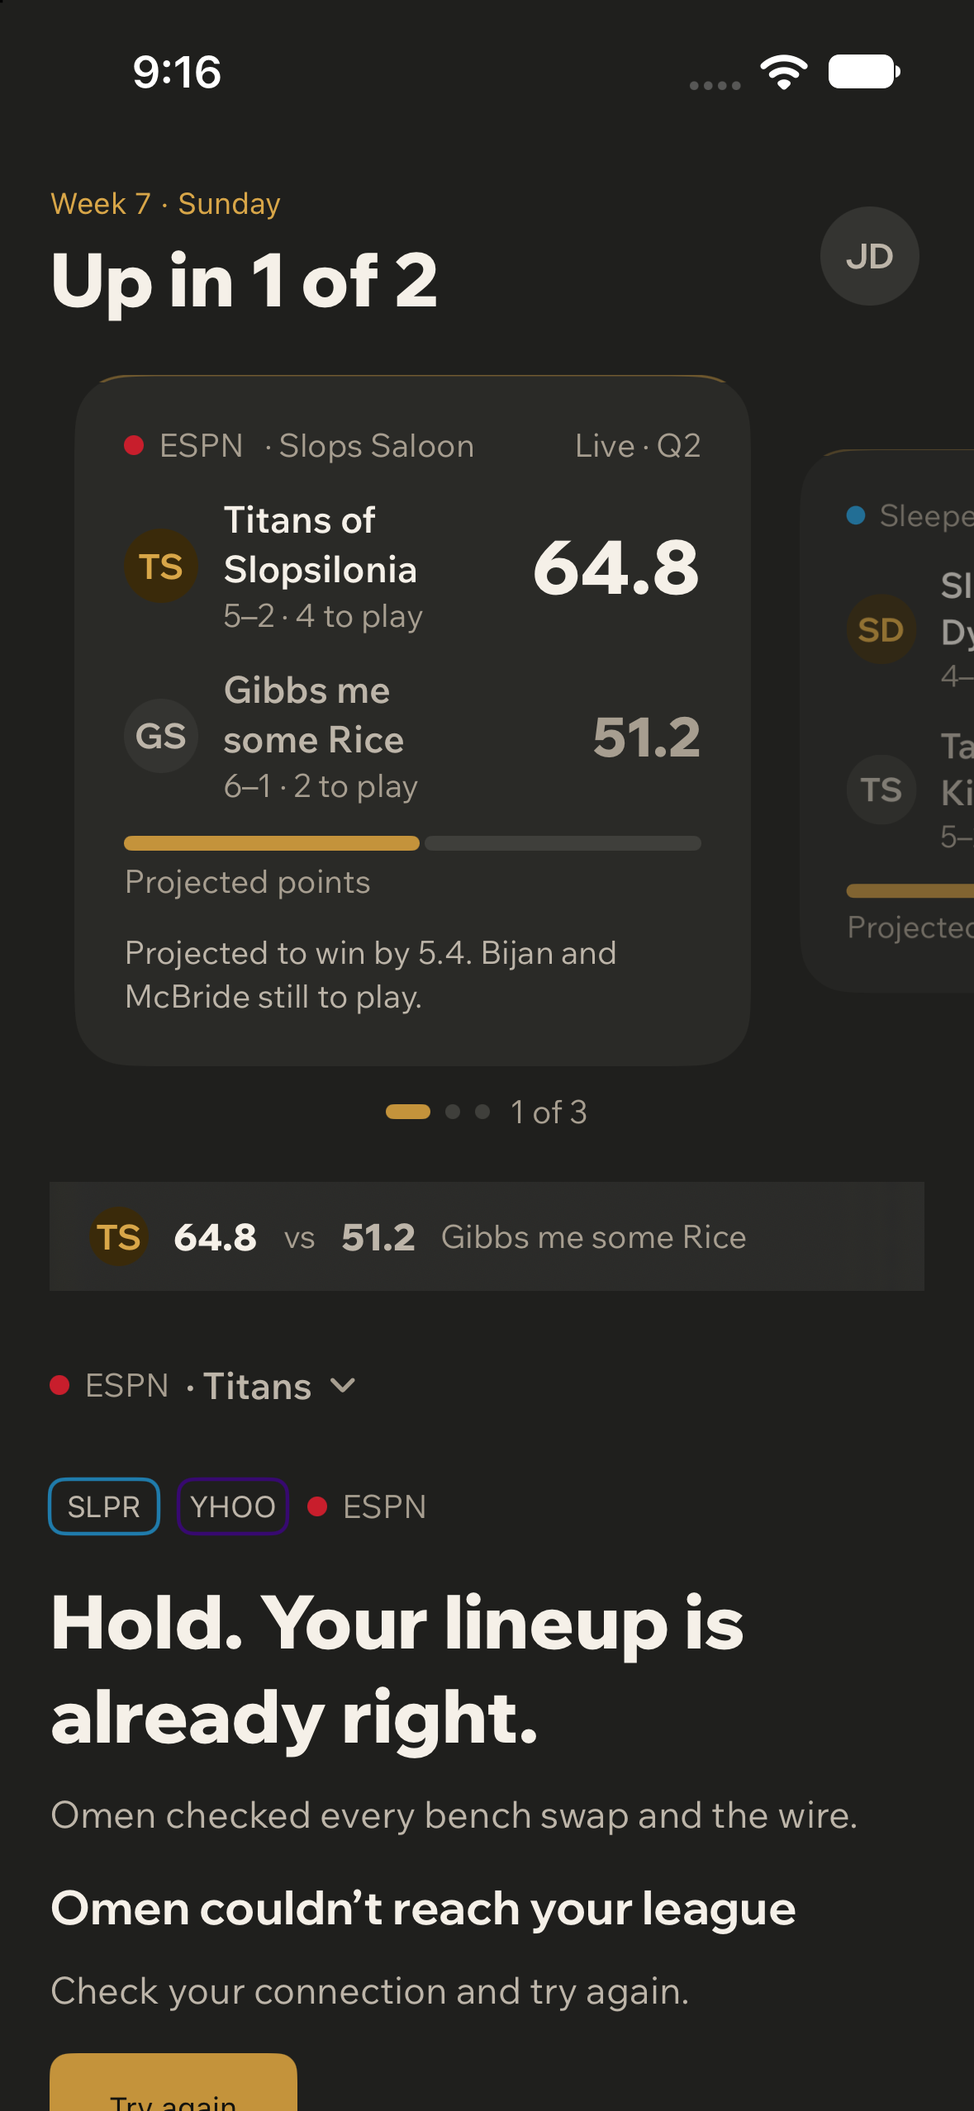
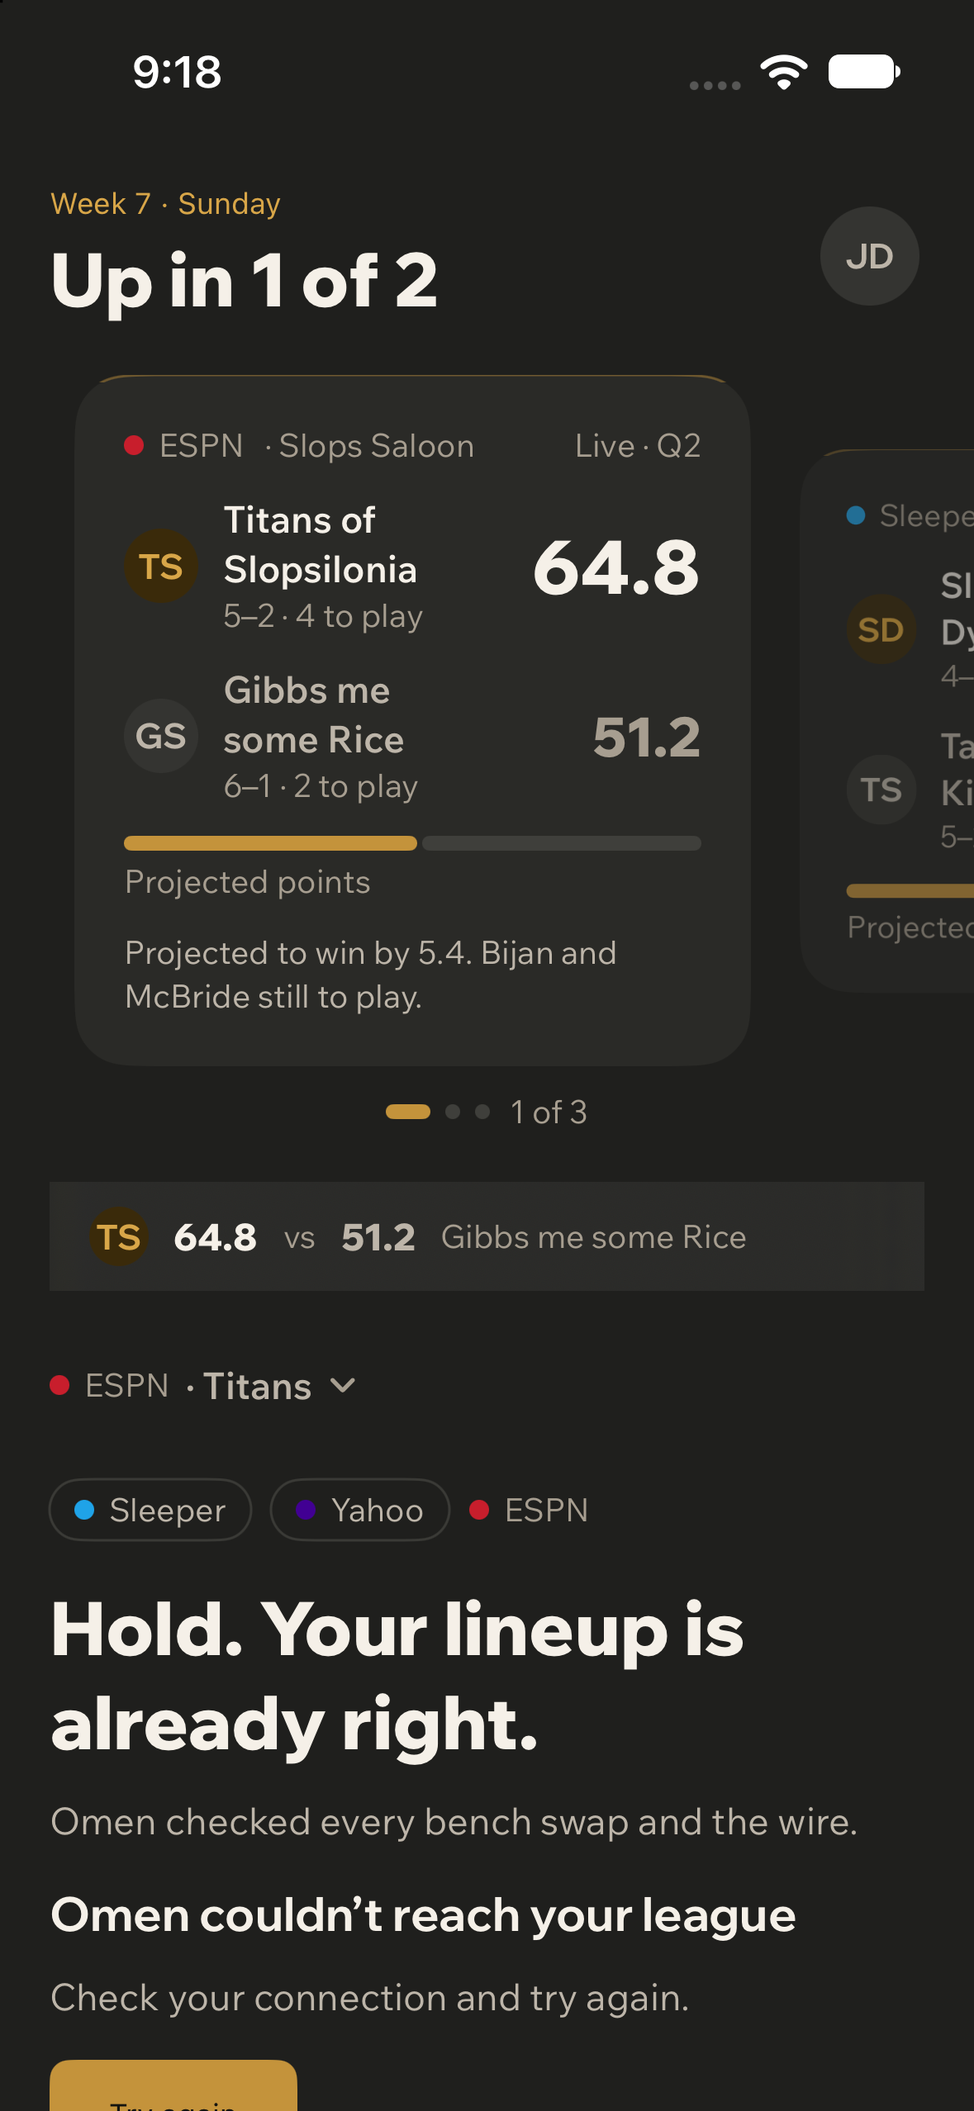
Foundation review fixes; foundation frozen

diff --git a/mobile/ios/OmenIOS/OmenIOS/DesignSystem/Foundation/OmenPlayerParts.swift b/mobile/ios/OmenIOS/OmenIOS/DesignSystem/Foundation/OmenPlayerParts.swift
@@ -58,9 +58,8 @@ struct OmenRosterRow: View {
                     }
                 }
                 .disabled(player.locked)
-                .opacity(player.locked ? 0.45 : 1)
                 .accessibilityElement(children: .combine)
-                .accessibilityLabel(player.locked ? "\(player.name), can't be traded" : player.name)
+                .accessibilityLabel(pickLabel)
                 .accessibilityHint(player.locked ? "" : selected ? "Removes him from the trade" : "Adds him to the trade")
                 .accessibilityAddTraits(selected ? .isSelected : [])
                 OmenPressable(action: onInfo) {
@@ -74,13 +73,22 @@ struct OmenRosterRow: View {
         }
     }
 
+    private var pickLabel: String {
+        var parts = [player.name]
+        if player.locked { parts.append("can't be traded") }
+        if let grade = player.grade { parts.append("Omen grade \(grade)") }
+        if let omen = player.omenPoints { parts.append("Omen \(OmenPlayerSummary.one(omen)) this week") }
+        return parts.joined(separator: ", ")
+    }
+
     private var rowContent: some View {
         HStack(spacing: OmenSpacing.step12) {
             OmenPlayerBadge(team: player.team, number: player.number, position: player.position)
+                .saturation(player.locked ? 0 : 1)
             VStack(alignment: .leading, spacing: OmenSpacing.step2) {
                 Text(player.name)
                     .omenTextStyle(OmenTypography.rowTitle)
-                    .foregroundStyle(OmenColor.textPrimary)
+                    .foregroundStyle(player.locked ? OmenColor.textTertiary : OmenColor.textPrimary)
                     .lineLimit(2)
                 if let detail = player.detail ?? defaultDetail {
                     Text(detail)
@@ -106,13 +114,13 @@ struct OmenRosterRow: View {
             VStack(alignment: .trailing, spacing: OmenSpacing.step2) {
                 if let omen = player.omenPoints {
                     Text("Omen \(OmenPlayerSummary.one(omen))")
-                        .omenTextStyle(player.lead == .provider ? OmenTypography.quiet : OmenTypography.numeric)
-                        .foregroundStyle(player.lead == .provider ? OmenColor.textTertiary : OmenColor.textPrimary)
+                        .omenTextStyle(player.lead == .omen ? OmenTypography.numeric : OmenTypography.quiet)
+                        .foregroundStyle(player.lead == .omen ? OmenColor.textPrimary : OmenColor.textSecondary)
                 }
                 if let provider = player.providerPoints {
                     Text("\(player.providerName) \(OmenPlayerSummary.one(provider))")
                         .omenTextStyle(player.lead == .provider ? OmenTypography.numeric : OmenTypography.quiet)
-                        .foregroundStyle(player.lead == .provider ? OmenColor.textPrimary : OmenColor.textTertiary)
+                        .foregroundStyle(player.lead == .provider ? OmenColor.textPrimary : OmenColor.textSecondary)
                 }
             }
         } else if let points = player.omenPoints ?? player.providerPoints {
@@ -148,12 +156,18 @@ struct OmenGradeRing: View {
             .omenTextStyle(side > 50 ? OmenTypography.figure : OmenTypography.cardLead)
             .foregroundStyle(grade == nil ? OmenColor.textTertiary : OmenColor.textPrimary)
             .frame(width: side, height: side)
-            .overlay(
-                Circle().stroke(
-                    (grade ?? 0) >= 80 ? OmenColor.accent : OmenColor.border,
-                    style: StrokeStyle(lineWidth: side > 50 ? 3 : 2, dash: grade == nil ? [3, 3] : [])
-                )
-            )
+            .overlay {
+                let width: CGFloat = side > 50 ? 3 : 2
+                ZStack {
+                    Circle().stroke(OmenColor.borderSubtle, style: StrokeStyle(lineWidth: width, dash: grade == nil ? [3, 3] : []))
+                    if let grade {
+                        Circle()
+                            .trim(from: 0, to: CGFloat(min(max(grade, 0), 100)) / 100)
+                            .stroke(OmenColor.accent, style: StrokeStyle(lineWidth: width, lineCap: .round))
+                            .rotationEffect(.degrees(-90))
+                    }
+                }
+            }
             .accessibilityLabel(grade.map { "Omen grade \($0)" } ?? "No Omen grade")
     }
 }
@@ -175,7 +189,7 @@ struct OmenReadBlock: View {
             VStack(alignment: .leading, spacing: OmenSpacing.step16) {
                 HStack(alignment: .top) {
                     VStack(alignment: .leading, spacing: OmenSpacing.step6) {
-                        Text(title).omenTextStyle(OmenTypography.eyebrow).foregroundStyle(OmenColor.accentHover)
+                        Text(title.uppercased()).omenTextStyle(OmenTypography.eyebrow).foregroundStyle(OmenColor.accentHover)
                         numbers
                     }
                     Spacer(minLength: OmenSpacing.step12)
@@ -207,21 +221,25 @@ struct OmenReadBlock: View {
 
     @ViewBuilder
     private var numbers: some View {
-        let omenLeads = player.lead == .omen
-        let providerLeads = player.lead == .provider
-        if let omen = player.omenPoints, !providerLeads {
+        // The earned lead is set large. Unresolved: both at the same size, and it says so (spec § 2).
+        // A missing number never hides the one that exists.
+        switch (player.lead, player.omenPoints, player.providerPoints) {
+        case (.omen, .some(let omen), let provider):
             lead(value: omen, source: "Omen")
-            if let provider = player.providerPoints {
-                second(source: player.providerName, value: provider)
-            }
-        } else if let provider = player.providerPoints, !omenLeads {
+            if let provider { second(source: player.providerName, value: provider) }
+        case (.provider, let omen, .some(let provider)):
             lead(value: provider, source: player.providerName)
-            if let omen = player.omenPoints { second(source: "Omen", value: omen) }
-        }
-        if player.lead == .unresolved, player.omenPoints != nil, player.providerPoints != nil {
-            Text("Neither has the better record for this yet.")
-                .omenTextStyle(OmenTypography.quiet)
-                .foregroundStyle(OmenColor.textTertiary)
+            if let omen { second(source: "Omen", value: omen) }
+        default:
+            HStack(alignment: .firstTextBaseline, spacing: OmenSpacing.step16) {
+                if let omen = player.omenPoints { even(value: omen, source: "Omen") }
+                if let provider = player.providerPoints { even(value: provider, source: player.providerName) }
+            }
+            if player.omenPoints != nil, player.providerPoints != nil {
+                Text("Neither has the better record for this yet.")
+                    .omenTextStyle(OmenTypography.quiet)
+                    .foregroundStyle(OmenColor.textTertiary)
+            }
         }
     }
 
@@ -229,6 +247,14 @@ struct OmenReadBlock: View {
         HStack(alignment: .firstTextBaseline, spacing: OmenSpacing.step6) {
             Text(OmenPlayerSummary.one(value)).omenTextStyle(OmenTypography.heroNumber).foregroundStyle(OmenColor.textPrimary)
             Text(source).omenTextStyle(OmenTypography.body).foregroundStyle(OmenColor.textTertiary)
+        }
+        .accessibilityElement(children: .combine)
+    }
+
+    private func even(value: Double, source: String) -> some View {
+        HStack(alignment: .firstTextBaseline, spacing: OmenSpacing.step4) {
+            Text(OmenPlayerSummary.one(value)).omenTextStyle(OmenTypography.figure).foregroundStyle(OmenColor.textPrimary)
+            Text(source).omenTextStyle(OmenTypography.quiet).foregroundStyle(OmenColor.textTertiary)
         }
         .accessibilityElement(children: .combine)
     }
@@ -264,7 +290,7 @@ struct OmenSidePair: View {
 
     private func card(_ side: Side, emphasized: Bool) -> some View {
         let content = VStack(spacing: OmenSpacing.step6) {
-            Text(side.label).omenTextStyle(OmenTypography.eyebrow).foregroundStyle(emphasized ? OmenColor.accentHover : OmenColor.textTertiary)
+            Text(side.label.uppercased()).omenTextStyle(OmenTypography.eyebrow).foregroundStyle(emphasized ? OmenColor.accentHover : OmenColor.textTertiary)
             OmenPlayerBadge(team: side.player.team, number: side.player.number, position: side.player.position)
             Text(side.player.name)
                 .omenTextStyle(OmenTypography.rowTitle)

diff --git a/mobile/ios/OmenIOS/OmenIOS/DesignSystem/Foundation/OmenTeamParts.swift b/mobile/ios/OmenIOS/OmenIOS/DesignSystem/Foundation/OmenTeamParts.swift
@@ -71,11 +71,12 @@ struct OmenTeamRolodex: View {
             .scrollTargetBehavior(.viewAligned)
             .scrollPosition(id: $scrolledID)
             .onAppear { scrolledID = selectedID ?? teams.first?.id }
-            .onChange(of: scrolledID) { _, settled in
+            // Commit only when the scroll comes to rest, never mid-flick (spec § 4.1).
+            .modifier(OmenScrollSettle(position: scrolledID) { settled in
                 guard let settled, settled != selectedID else { return }
                 UISelectionFeedbackGenerator().selectionChanged()
                 selectedID = settled
-            }
+            })
             .onChange(of: selectedID) { _, chosen in
                 if chosen != scrolledID { withAnimation { scrolledID = chosen } }
             }
@@ -106,6 +107,30 @@ struct OmenTeamRolodex: View {
     }
 }
 
+/// Calls back once a scroll has come to rest. iOS 18 reports the scroll phase; iOS 17 waits until the
+/// position has not changed for a quarter second.
+private struct OmenScrollSettle: ViewModifier {
+    let position: String?
+    let onSettle: (String?) -> Void
+    @State private var pending: Task<Void, Never>?
+
+    func body(content: Content) -> some View {
+        if #available(iOS 18.0, *) {
+            content.onScrollPhaseChange { _, phase in
+                if phase == .idle { onSettle(position) }
+            }
+        } else {
+            content.onChange(of: position) { _, value in
+                pending?.cancel()
+                pending = Task { @MainActor in
+                    try? await Task.sleep(for: .milliseconds(250))
+                    if !Task.isCancelled { onSettle(value) }
+                }
+            }
+        }
+    }
+}
+
 /// One team's card in the Rolodex.
 struct OmenTeamCard: View {
     let team: OmenTeamCardModel
@@ -129,7 +154,7 @@ struct OmenTeamCard: View {
                         VStack(alignment: .leading, spacing: OmenSpacing.step4) {
                             GeometryReader { geo in
                                 HStack(spacing: 2) {
-                                    Capsule().fill(OmenColor.accent).frame(width: geo.size.width * share)
+                                    Capsule().fill(OmenColor.accent).frame(width: max(0, (geo.size.width - 2) * share))
                                     Capsule().fill(OmenColor.surface3)
                                 }
                             }
@@ -210,7 +235,7 @@ struct OmenPinnedScore: View {
                 Spacer(minLength: 0)
             }
             .padding(.horizontal, OmenSpacing.step16)
-            .frame(height: 44)
+            .frame(minHeight: 44)
             .background(.bar)
         }
         .accessibilityLabel("Your score \(team.score.map(OmenPlayerSummary.one) ?? "none"), \(team.opponentName ?? "opponent") \(team.opponentScore.map(OmenPlayerSummary.one) ?? "none"). Scroll to top")

diff --git a/mobile/ios/OmenIOS/OmenIOS/DesignSystem/Foundation/OmenFoundation.swift b/mobile/ios/OmenIOS/OmenIOS/DesignSystem/Foundation/OmenFoundation.swift
@@ -74,12 +74,14 @@ struct OmenPlayerBadge: View {
     let number: Int?
     let position: String?
     var size: Size = .row
+    @ScaledMetric(relativeTo: .body) private var rowSide: CGFloat = 40
+    @ScaledMetric(relativeTo: .title) private var heroSide: CGFloat = 72
 
     var body: some View {
         let pair = OmenNFLTeamColors.pair(for: team)
         let fill = pair.map { OmenNFLTeamColors.color($0.fill) } ?? OmenColor.surface2
         let ink = pair.map { OmenNFLTeamColors.color($0.text) } ?? OmenColor.textSecondary
-        let side: CGFloat = size == .row ? 40 : 72
+        let side: CGFloat = size == .row ? rowSide : heroSide
         VStack(spacing: size == .row ? 1 : 3) {
             Text(number.map(String.init) ?? (position ?? "\u{2014}"))
                 .omenTextStyle(size == .row ? OmenTypography.numeric : OmenTypography.figure)
@@ -156,12 +158,14 @@ struct OmenProviderMark: View {
             }
             .accessibilityElement(children: .combine)
         case .tag:
-            Text(short)
-                .omenTextStyle(OmenTypography.micro)
-                .foregroundStyle(OmenColor.textSecondary)
-                .frame(width: 44, height: 22)
-                .overlay(RoundedRectangle(cornerRadius: 6).stroke(color.opacity(0.7), lineWidth: 1.5))
-                .accessibilityLabel(name)
+            HStack(spacing: OmenSpacing.step6) {
+                Circle().fill(color).frame(width: 8, height: 8)
+                Text(name).omenTextStyle(OmenTypography.quiet).foregroundStyle(OmenColor.textSecondary)
+            }
+            .padding(.horizontal, OmenSpacing.step10)
+            .padding(.vertical, OmenSpacing.step4)
+            .overlay(Capsule().stroke(OmenColor.borderSubtle, lineWidth: 1))
+            .accessibilityElement(children: .combine)
         }
     }
 
@@ -173,15 +177,6 @@ struct OmenProviderMark: View {
         case "yahoo": "Yahoo"
         case "sleeper": "Sleeper"
         default: "Provider"
-        }
-    }
-
-    private var short: String {
-        switch platform.lowercased() {
-        case "espn": "ESPN"
-        case "yahoo": "YHOO"
-        case "sleeper": "SLPR"
-        default: platform.uppercased().prefix(4).description
         }
     }
 
@@ -393,7 +388,7 @@ struct OmenSheetHeader: View {
         HStack(alignment: .center) {
             VStack(alignment: .leading, spacing: OmenSpacing.step4) {
                 if let eyebrow {
-                    Text(eyebrow).omenTextStyle(OmenTypography.eyebrow).foregroundStyle(OmenColor.accentHover)
+                    Text(eyebrow.uppercased()).omenTextStyle(OmenTypography.eyebrow).foregroundStyle(OmenColor.accentHover)
                 }
                 Text(title)
                     .omenTextStyle(OmenTypography.sectionHeader)

diff --git a/mobile/ios/OmenIOS/OmenIOS/App/Screenshot/FoundationGallery.swift b/mobile/ios/OmenIOS/OmenIOS/App/Screenshot/FoundationGallery.swift
@@ -61,7 +61,7 @@ struct FoundationTeamsGallery: View {
             VStack(alignment: .leading, spacing: OmenSpacing.step20) {
                 HStack {
                     VStack(alignment: .leading, spacing: OmenSpacing.step4) {
-                        Text("Week 7 \u{00B7} Sunday").omenTextStyle(OmenTypography.eyebrow).foregroundStyle(OmenColor.accentHover)
+                        Text("WEEK 7 \u{00B7} SUNDAY").omenTextStyle(OmenTypography.eyebrow).foregroundStyle(OmenColor.accentHover)
                         Text("Up in 1 of 2").omenTextStyle(OmenTypography.pageTitle).foregroundStyle(OmenColor.textPrimary)
                     }
                     Spacer()

diff --git a/Blueprints/specs/design/omen-design-foundation-v1.md b/Blueprints/specs/design/omen-design-foundation-v1.md
@@ -83,12 +83,12 @@ Each pattern is one component in `DesignSystem/`. A screen composes these; it do
 | **Player badge** | A rounded square in the player's NFL team colours with his jersey number and position. No player photos: there is no free, lawful source (research 2026-10-21: SportsDataIO licenses USA Today headshots for a fee; Sportradar images are media-only; other APIs give image links without image rights). Founder, 2026-10-21: badges now. Team colours come from the existing team palette; text colour is chosen per team for contrast. | Every player row, Player header |
 | *Later: illustrated player avatars* | Founder idea, 2026-10-21: drawn avatars that look like each player, helmet on. Not now. Before it starts: a drawing that resembles a real player still uses his likeness, so it needs the same rights check as photos (NFLPA group licensing). | — |
 | **Team crest** | The fantasy team's own logo when the provider sends one (Sleeper avatars, ESPN and Yahoo uploaded team logos): the user's own league content shown back to them. Otherwise a monogram of the team name. | Rolodex, switcher, League standings, trade partner |
-| **Provider mark** | The provider's name and its colour (ESPN red, Yahoo purple, Sleeper blue) as a dot or tag. No provider logos (founder, 2026-10-21). | Rolodex, switcher, Account, Connect |
+| **Provider mark** | The provider's full name and its colour (ESPN red, Yahoo purple, Sleeper blue) as a dot, or as a dot-and-name capsule. Never an abbreviation. No provider logos (founder, 2026-10-21). | Rolodex, switcher, Account, Connect |
 | **Account avatar** | Initials for now. A photo is a later decision: Sign in with Apple never shares one. | Desk, Account |
 | **Stat grid** | Two columns of number over label, on one surface, hairline-split. | Player |
 | **Section header** | Display-face title in sentence case, optional quiet count or link at right. No uppercase micro-labels as section titles. | Every screen |
 | **Back control** | Per platform, § 3. | Every pushed screen |
-| **State block** | One component, four meanings with their own words and actions: **hold** (Omen checked and nothing beats your lineup), **nothing worth doing** (no move clears the bar), **not enough to go on** (inputs missing, name the one that matters and how to fix it), **failed** (the request broke, retry). Never present a failed read as "nothing worth doing". | Every screen |
+| **State block** | One component, four meanings with their own words and actions: **hold** (Omen checked and nothing beats your lineup), **nothing worth doing** (no move clears the bar), **not enough to go on** (inputs missing, name the one that matters and how to fix it), **failed** (the request broke, retry). Never present a failed read as "nothing worth doing". A fifth kind, **loading**, shows the screen's outline where a frame exists (States board) and a quiet line where it does not. | Every screen |
 
 Every control has pressed, selected, working, done and failed looks. Input is acknowledged on the spot;
 "done" only shows when the server confirmed it.

diff --git a/Blueprints/handoffs/2026-10-21-build12-app-progress.md b/Blueprints/handoffs/2026-10-21-build12-app-progress.md
@@ -50,21 +50,25 @@ it was the last user of, in the same commit.
 | `OmenContextualHelpButton` (header "?") | 1 file | "How Omen makes a call" in Account (spec § 3) | open |
 | `OmenEvidenceRow` | 3 files | `OmenKeyValueRow` | open |
 | `OmenIconButton`, `OmenPlatformCompactRow`, `OmenProviderCard` | 5 / 1 / 1 files | keep only if a frame uses it; otherwise delete | open |
+| `OmenConnectionStatusBadge` | connect / account | `OmenProviderMark` + status words on the row | open |
+| `OmenConfirmationDialog` | delete, disconnect | system confirmation + `OmenSheetHeader` (Delete frame) | open |
+| `OmenTradeControls.swift` (rest of file) | trade journey | trade builder pieces | open |
+| `OmenAuthPrimaryButton`, `OmenFocusRing`, `OmenPicker`, `OmenTextField`, `OmenFormField`, `OmenOtpCodeField` | sign-in, forms | **kept on purpose**: form and sign-in controls the foundation does not replace; restyled only if a frame differs | kept |
 | Old type roles (`display`, `h1`-`h3`, `call`, `scoreLead`, `scoreTrail`, `screenTitle`, `cardLead`, `name`, `bodySmall`, `label`) | many | foundation roles | open |
 | `DesignSystemGalleryView` | debug | `FoundationGallery` | open |
 | Old screen files each new screen replaces | per screen | listed per screen in the table below | open |
 
 ## Foundation (built and reviewed before any screen, then frozen)
 
-- [ ] Colour tokens match spec § 7 (dark and light), including `omenChip` for green words
-- [ ] Type roles: heroNumber, screenTitle, sectionHeader, body, quiet, eyebrow
-- [ ] Back control · section header · state block (hold, nothing worth doing, not enough, failed)
-- [ ] Player row (browse, compare, pick) · player badge (team colour, number, position)
-- [ ] Team crest · provider mark · account avatar (initials)
-- [ ] Omen read block · start/sit pair · stat grid · accent lip surface
-- [ ] Sheet chrome (grabber, Close/Done, unsaved-input confirm) · bottom dock
-- [ ] Team Rolodex · pinned score · team control ("ESPN · Titans ▾")
-- [ ] Foundation review by a fresh agent; then frozen
+- [x] Colour tokens match spec § 7 (dark and light), including `omenChip` for green words
+- [x] Type roles: heroNumber, screenTitle, sectionHeader, body, quiet, eyebrow
+- [x] Back control · section header · state block (hold, nothing worth doing, not enough, failed)
+- [x] Player row (browse, compare, pick) · player badge (team colour, number, position)
+- [x] Team crest · provider mark · account avatar (initials)
+- [x] Omen read block · start/sit pair · stat grid · accent lip surface
+- [x] Sheet chrome (grabber, Close/Done, unsaved-input confirm) · bottom dock
+- [x] Team Rolodex · pinned score · team control ("ESPN · Titans ▾")
+- [x] Foundation review by a fresh agent (6 P1, 7 P2, all fixed: authority emphasis, missing-number fallback, settle-only commit, locked-row contrast, uppercase eyebrows, grade ring track, scaled sizes, full provider names); **frozen 2026-10-21**. Evidence: `output/screens/build12/foundation/ios/{dark,light}/`. Unit tests 652, 0 failures.
 
 ## Screens
 
